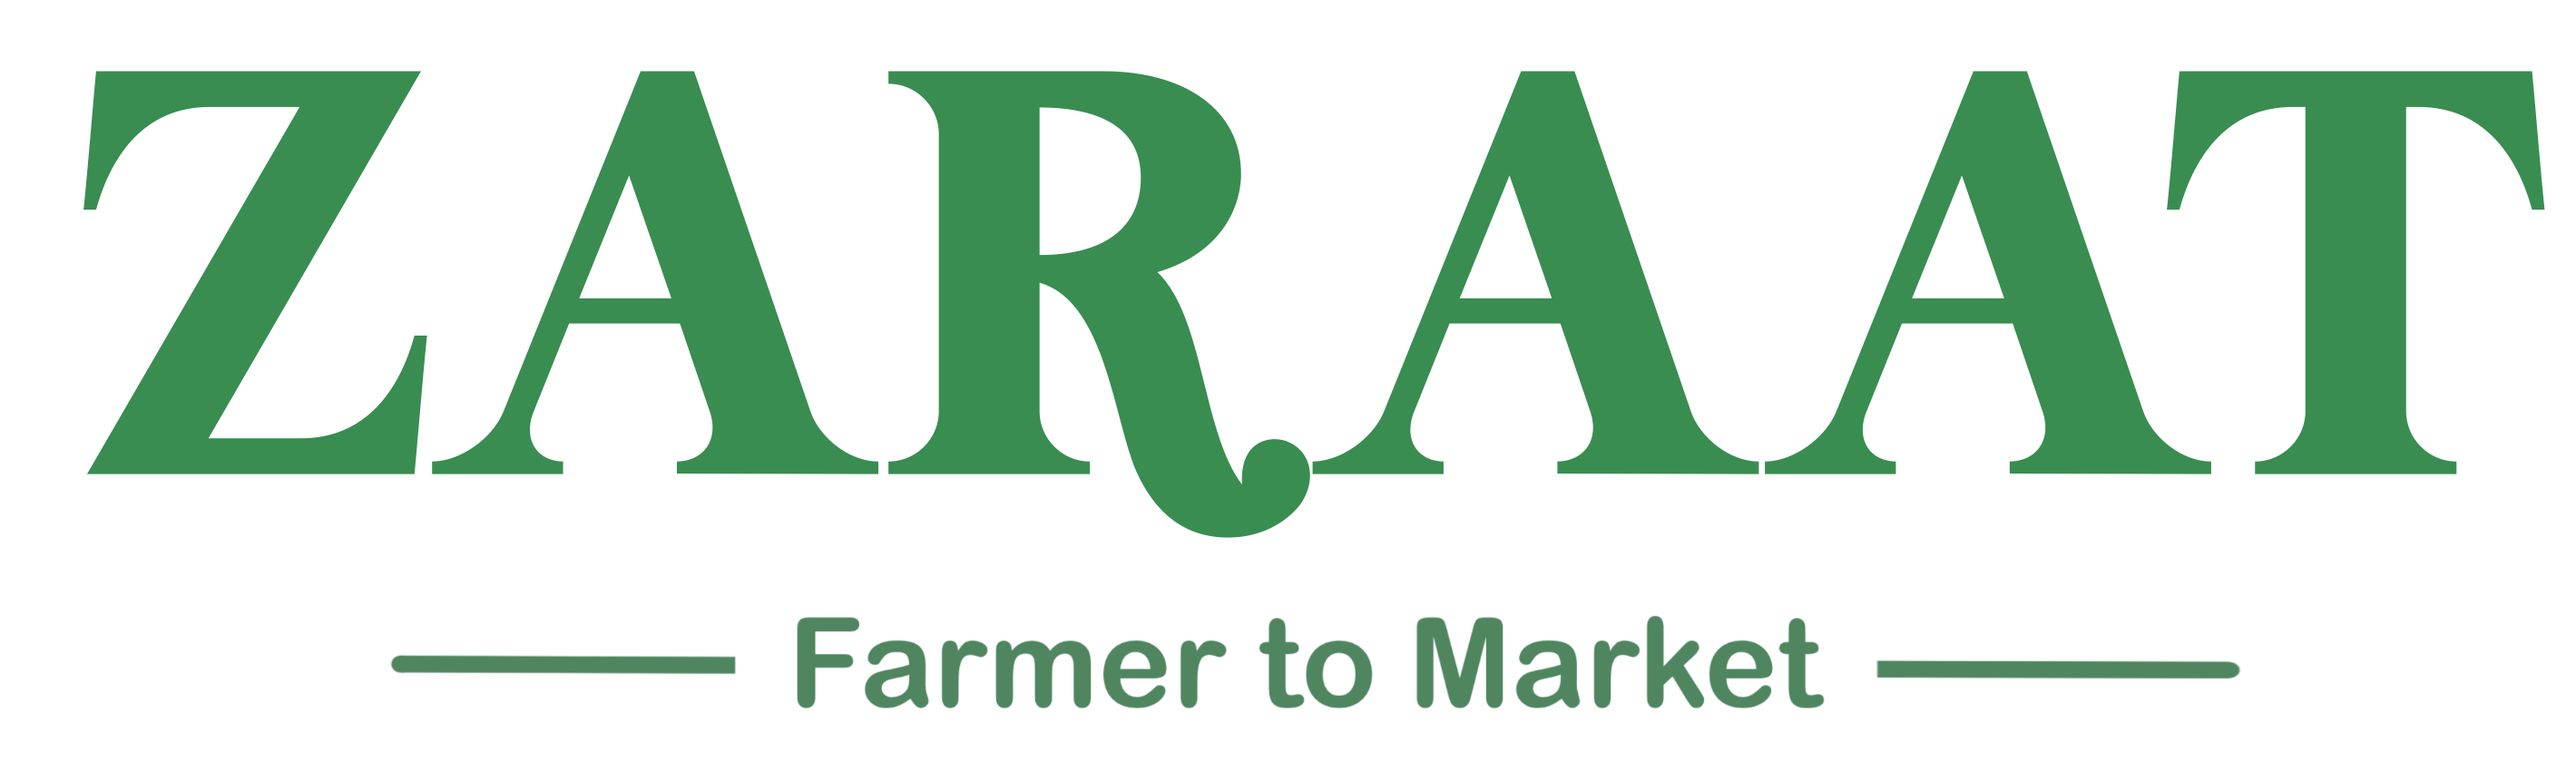
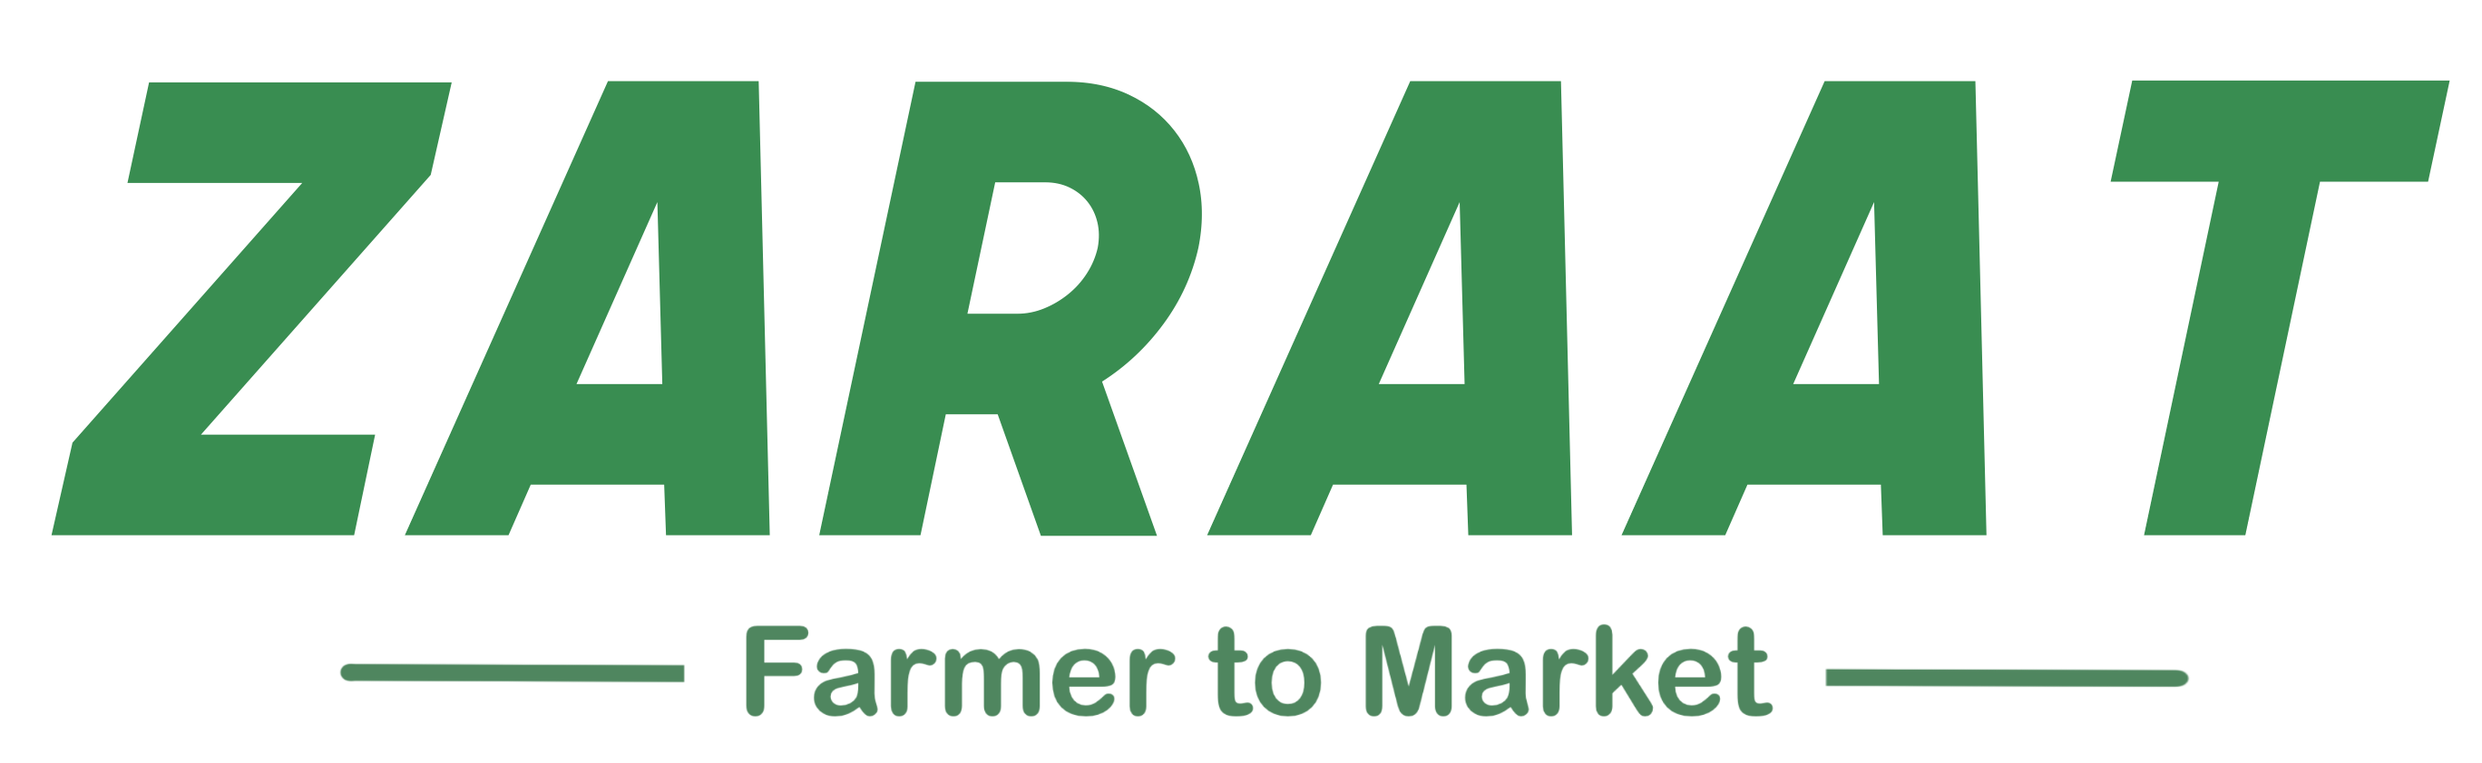
New loog, and registered mark

Changed region(s): [[0.0, 0.0929, 0.9631, 0.7119], [0.1243, 0.8048, 0.901, 0.9595], [0.8388, 0.0929, 0.9942, 0.2786]]

diff --git a/index.html b/index.html
@@ -867,7 +867,7 @@
             </a>
             <p>
               <strong>Farmer to Market</strong> <br>
-              ZARAAT is an IT based Agrotech company that offers end to end agricultural services to the Indian farmers.<br>
+              ZARAAT<sup>&#174;</sup> is an IT based Agrotech company that offers end to end agricultural services to the Indian farmers.<br>
               <br>
               <!-- <strong>Phone:</strong> +91 5589 55488 55<br> -->
               <strong>Email:</strong> info@zaraatagrotech.com<br>
@@ -923,7 +923,7 @@
 
     <div class="container">
       <div class="copyright">
-        <strong><span>Zaraat &#174; </span></strong>All Rights Reserved
+        <strong><span>Zaraat<sup>&#174;</sup> </span></strong>All Rights Reserved
       </div>
       <div class="credits">
         Designed by <a href="https://Cyberalliance.in/">Cyber Alliance India</a>
